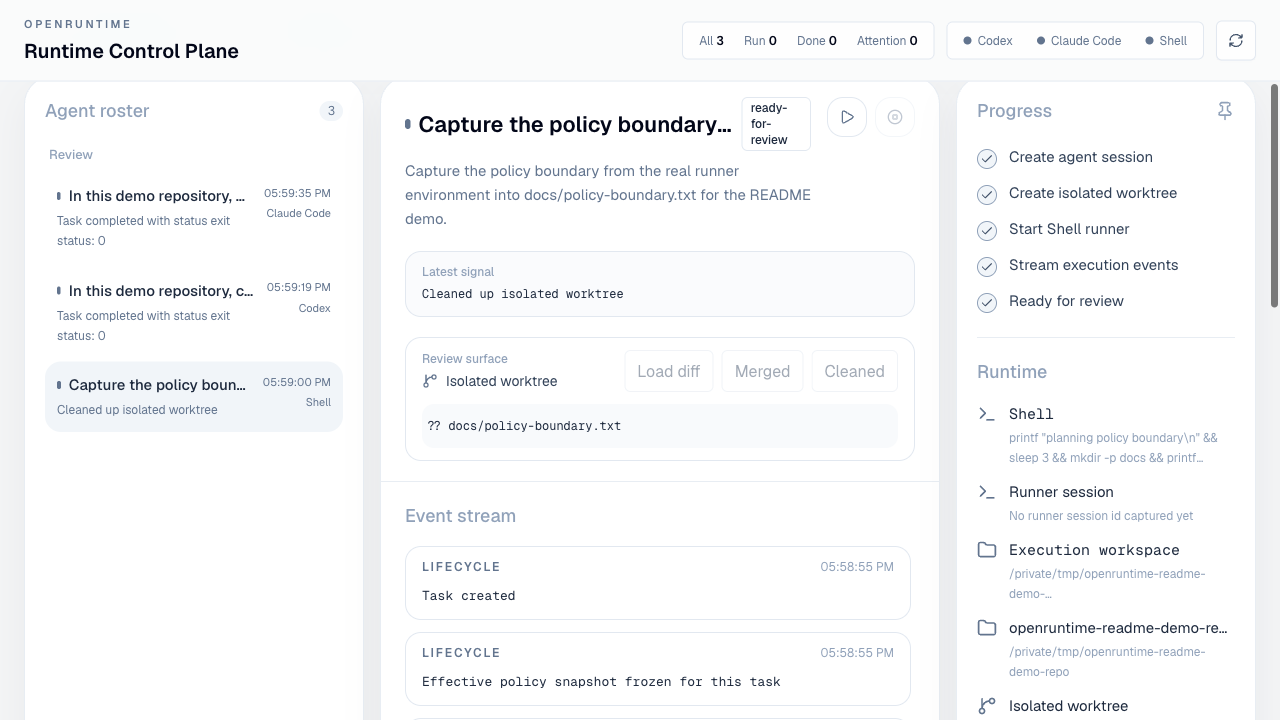
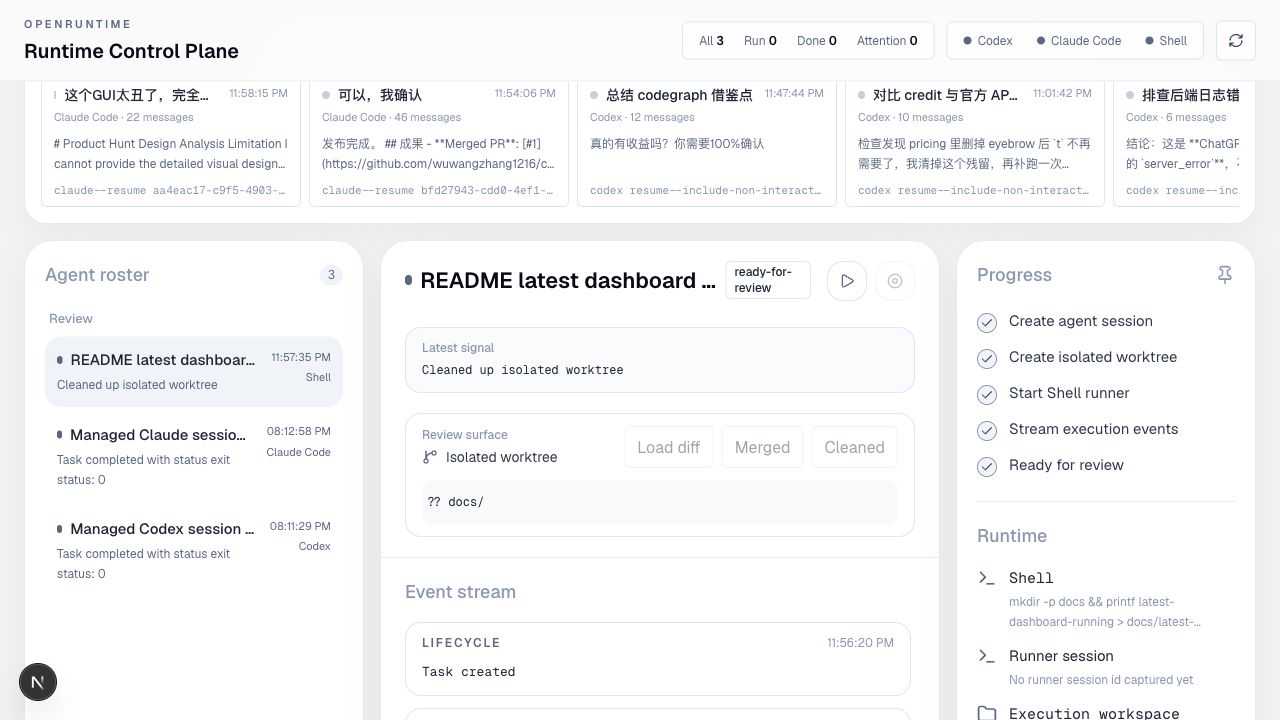
Refresh README dashboard assets (#10)

diff --git a/README.md b/README.md
@@ -25,18 +25,18 @@ runtime layer around them.
 ![openRuntime workflow demo](docs/assets/openruntime-demo.gif)
 
 The demo above was captured from real local runs against a temporary git
-workspace. It includes a shell policy-boundary task, a Codex task, and a Claude
-Code task dispatched through the GUI, isolated into git worktrees, streamed into
-the session timeline, reviewed through the diff surface, plus a reviewed
-worktree merged and cleaned up from the UI.
+workspace. It includes live discovery of the local Codex and Claude Code session
+stores, a shell policy-boundary task dispatched through the GUI, isolated git
+worktrees, streamed timeline events, diff-first review, and a reviewed worktree
+merged and cleaned up from the UI.
 
 | Dispatch policy and runner state | Live session timeline |
 | --- | --- |
 | ![Dispatch workspace and runner state](docs/assets/openruntime-dispatch.png) | ![Running task with streamed events](docs/assets/openruntime-running.png) |
 
-| Real Codex and Claude Code sessions | Diff-first review |
+| Local Codex and Claude Code session inventory | Diff-first review |
 | --- | --- |
-| ![Real Codex and Claude Code sessions](docs/assets/openruntime-real-agents.png) | ![Diff review surface](docs/assets/openruntime-review.png) |
+| ![Local Codex and Claude Code session inventory](docs/assets/openruntime-real-agents.png) | ![Diff review surface](docs/assets/openruntime-review.png) |
 
 | Merged and cleaned worktree |
 | --- |
@@ -54,6 +54,8 @@ worktree merged and cleaned up from the UI.
 - Records task attempts for each start/resume so restarts have separate status,
   runtime, exit, and blocking context.
 - Tracks runner session ids and exposes attach/log surfaces for agent sessions.
+- Inventories local Codex and Claude Code session JSONL stores, including Claude
+  subagents, and links discovered sessions back to managed openRuntime tasks.
 - Supports runtime budgets so long-running sessions can be stopped.
 - Applies local execution boundaries for workspace access, file/tool allowlists,
   network mode, secret redaction, approval requirements, and blocked command
